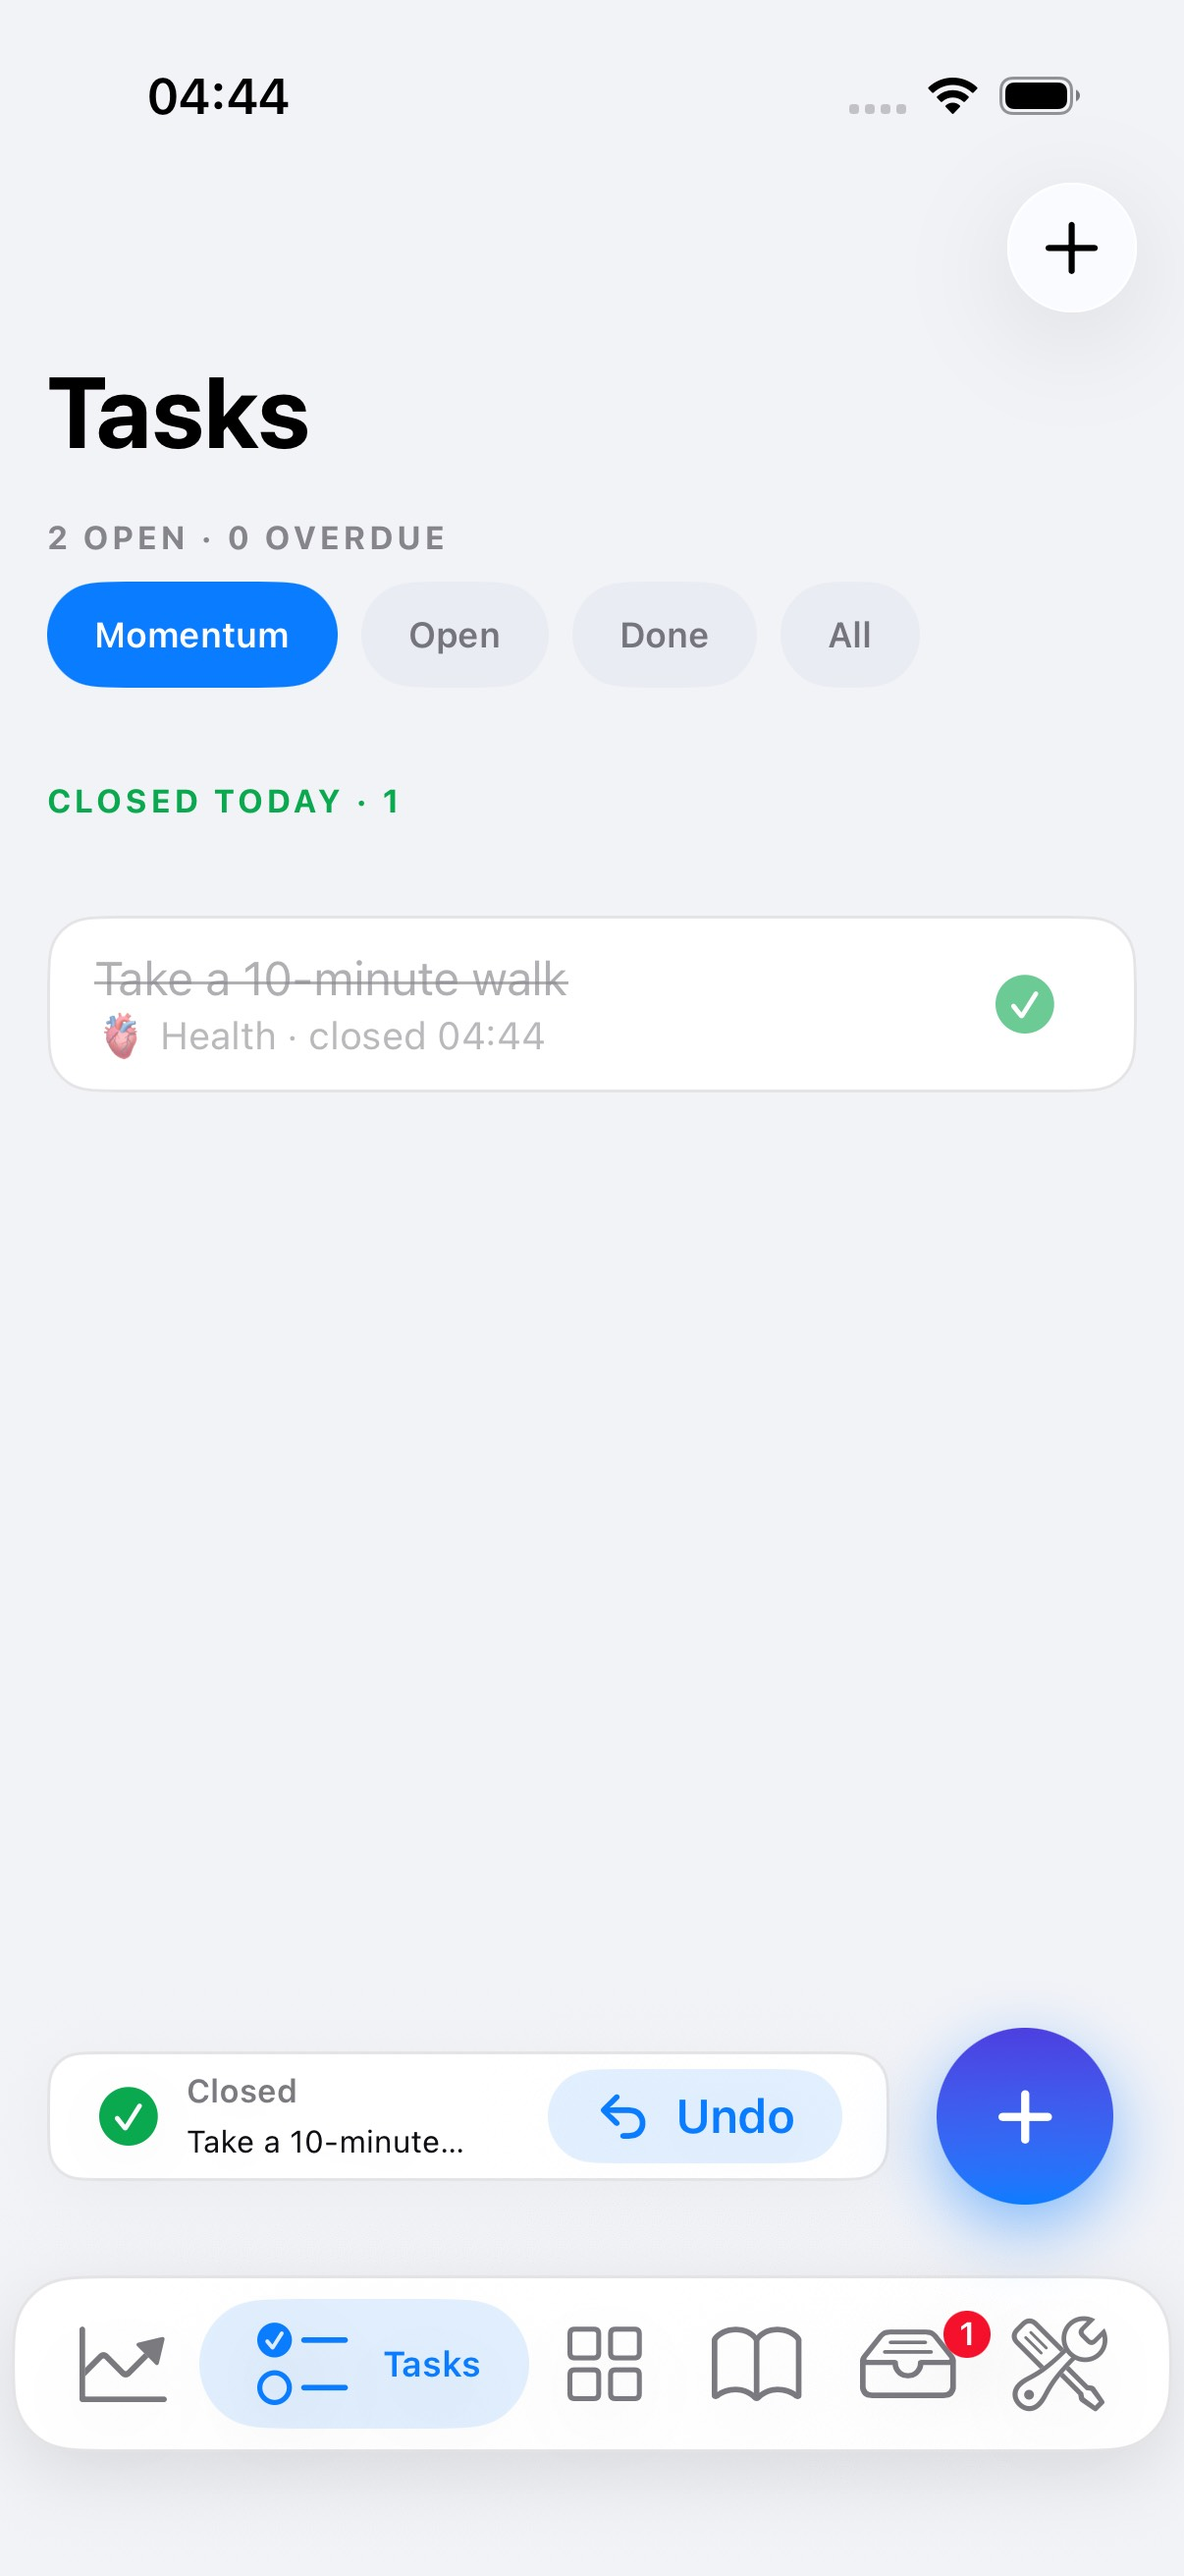
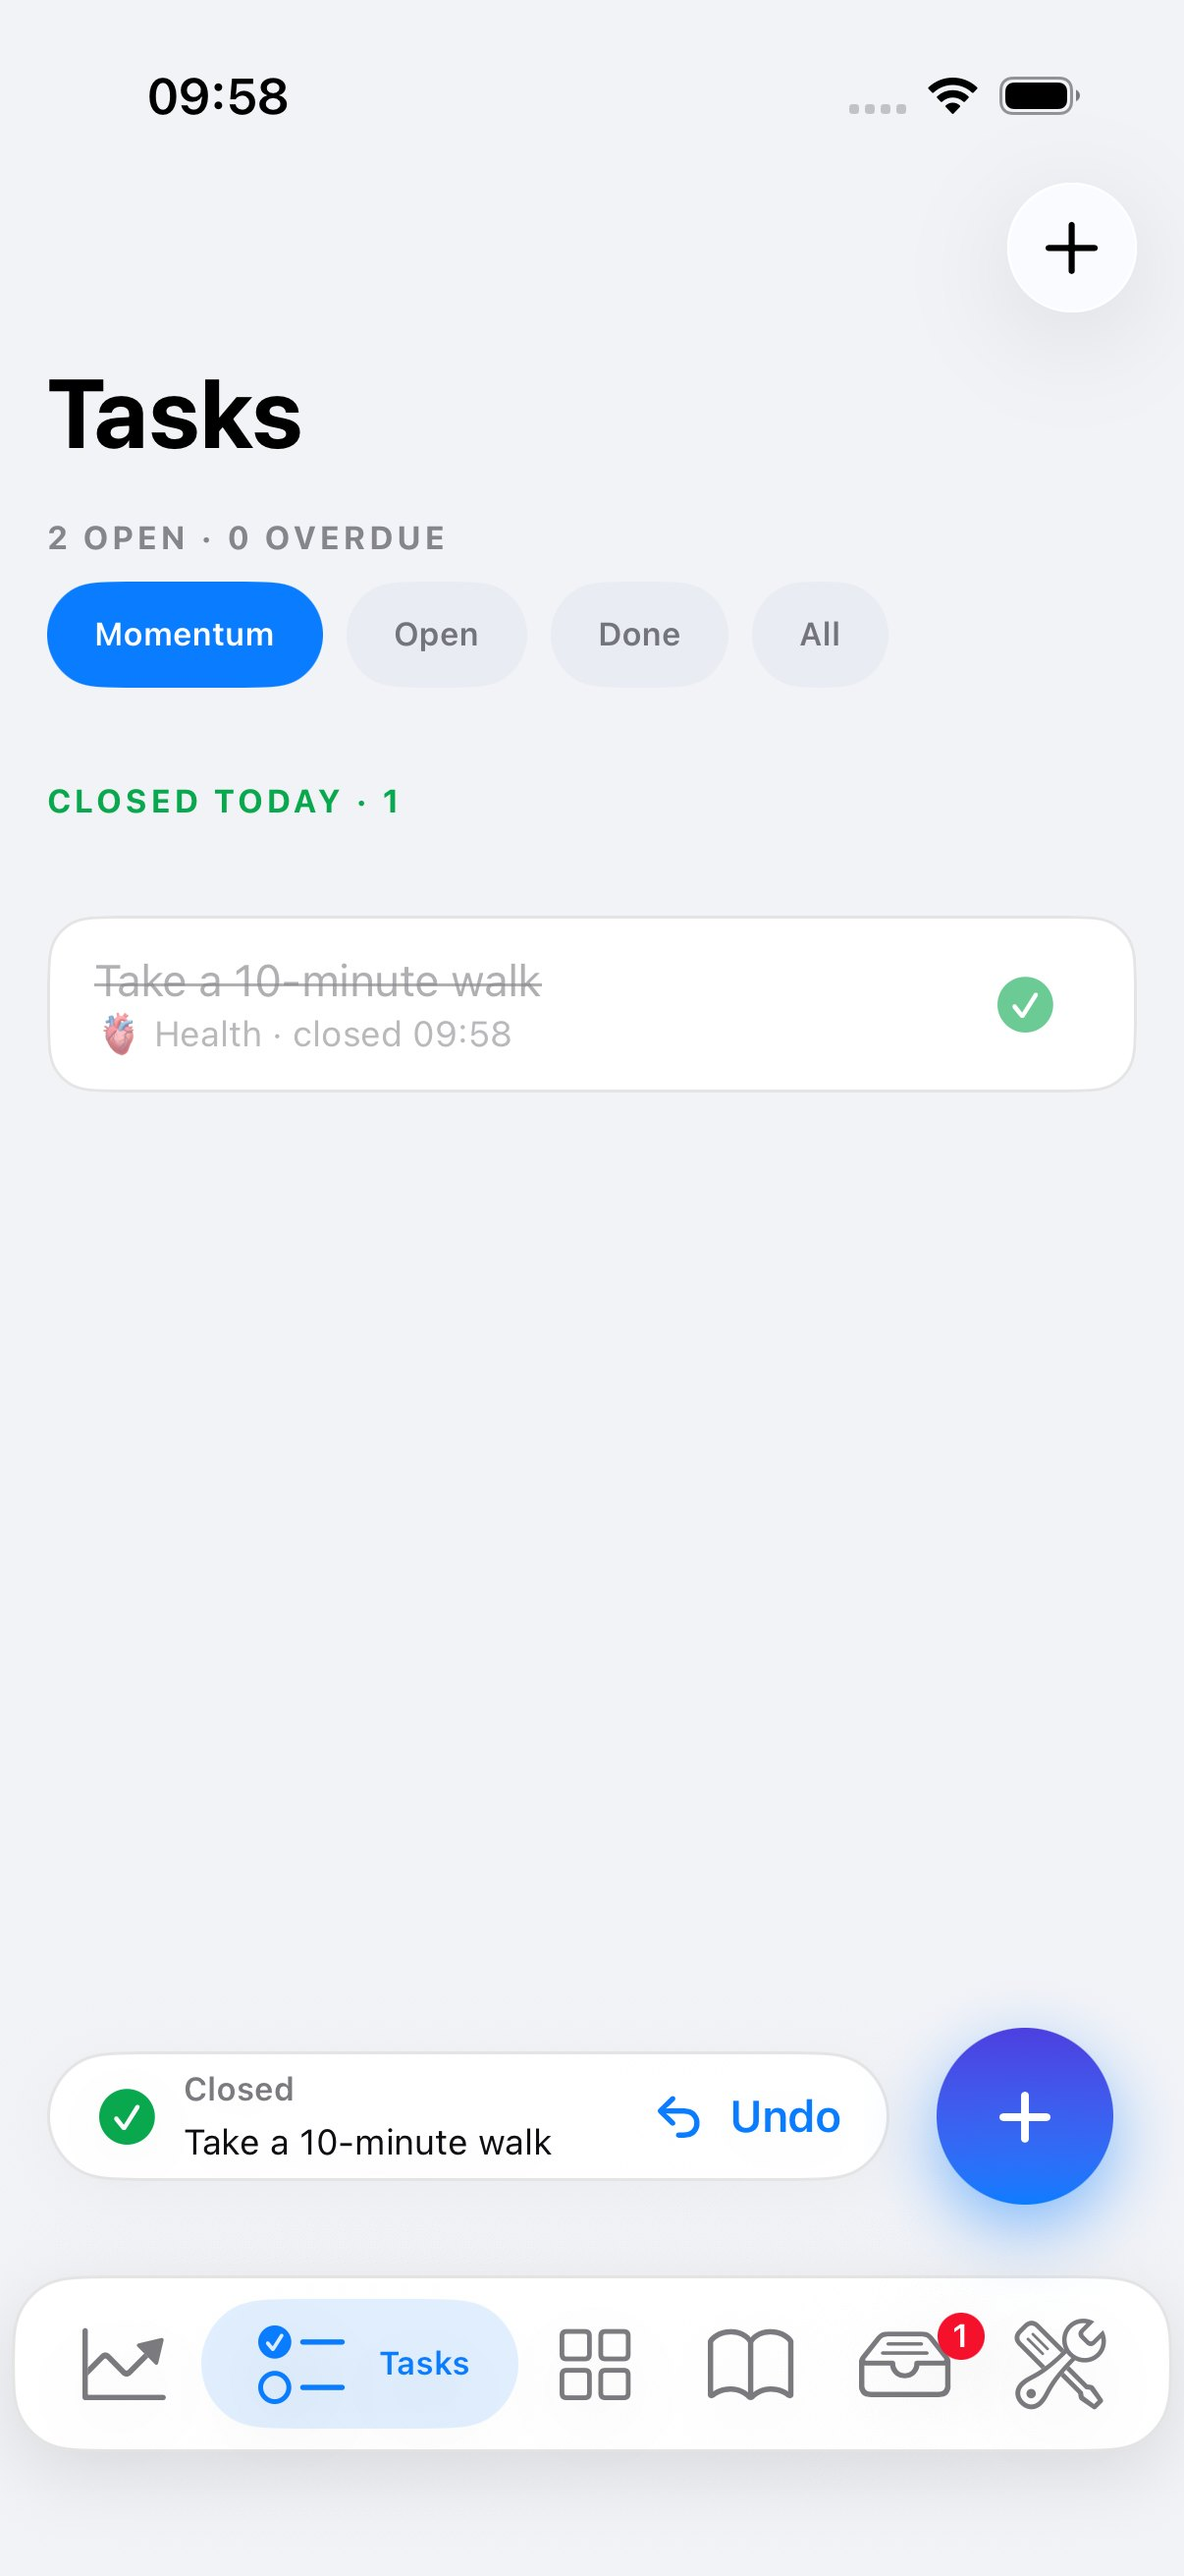
F-C1-UndoCapsule: re-render the evidence at the shipped shape; record the cap
`screenshots/undo-capsule/` re-rendered from the shipped build in light, dark
and Accessibility XL, and the two landscape frames finally re-taken — they had
carried a `-PRE-HEIGHT-ROUND` suffix for two rounds.

`11-ax3-the-decision-capsule-vs-capped-L.jpg` is new: the frame E decided the
radius cap from, both shapes side by side at Accessibility XL with the
measured numbers on each half.

The README's "what driving the real screens caught that the tests could not"
list goes from three items to four, and the new one is the generalisable one:
**when a shape's geometry is DERIVED from its content's size, the accessibility
layout is a different shape — render it before calling a shape round closed.**
6,329 glyph pixels and 2,604 Undo pixels were drawn off the card before the
cap; 0 and 0 after.

Contrast figures updated for the dropped chip: the Undo label sits on
`cardSurface` now, 3.38 → 3.93:1 light and 3.48 → 4.47:1 dark. Still short of
4.5:1, still the held colour arc's — recorded, not fixed.

`TODO-CLAUDE-CODE.md` carries the "Built 2026-09-20, and where it departs from
the spec" note: all four specified changes exactly as written, one departure
and E made it.

Claude-Session: https://claude.ai/code/session_01FW7xV1rwWjatGkoYuSkzgi

diff --git a/screenshots/undo-capsule/README.md b/screenshots/undo-capsule/README.md
@@ -1,32 +1,42 @@
 # `F-C1-UndoCapsule` — the undo capsule, on every surface it appears on
 
-> **Re-rendered 2026-09-20 after E's HEIGHT ROUND.** The first set drew the capsule at **74pt**
-> against a 60pt capture disc. E marked a **45.3pt** band on
-> `02-tasks-capsule-stands-in-for-search-L-EDITED.jpg` — *"the UndoCapsule must be made smaller in
-> height, it looks ugly with the UndoCapsule at the same height as the FAB Icon"* — and, shown four
-> shapes rendered on the real screen (`../undo-capsule-height/`), chose **two lines, a size
-> smaller**: board `54`'s arrangement kept, verb `.footnote` → `.caption2`, subject `.callout` →
-> `.footnote`, subject to ONE line. The card is **44pt** now, which is also §3's touch floor and
-> the search row's own height — it stands in that slot, so matching it is deliberate.
+> **Re-rendered 2026-09-20 (SECOND re-render) after E's SHAPE ROUND — and the render caught a
+> Critical the round itself could not have.** E looked at the 44pt capsule on their own phone and
+> sent the shape back: *"Bringing back a second line is smart. I also recommend that we remove the
+> blue chip background colour behind the "Undo" Button and increase the corner radius of the entire
+> UndoCapsule card."* Eight shapes were then rendered on the real screen
+> (`../undo-capsule-redesign/`) and E chose **fully rounded, no chip, and the Undo control's 16pt
+> padding reclaimed** — then, shown that a second line costs 15pt on every realistic task title,
+> **overturned their own opening words and chose 44pt with ONE wider line.** The reclaimed 32pt is
+> spent widening that line: these frames read *"Take a 10-minute walk"* where the shipped shape
+> truncated.
 >
-> E also chose the Undo control's trade by name: *"Yes — draw 32, tap 44"*. The pill is drawn at
-> 32pt and its hit area is grown back to §3's 44pt with the tab bar's own negative-padding trick
-> (`AppTabBarMetrics.slotHitOverflow`). Round 7's *"48pt for anything that … undoes"* cannot be
-> drawn inside a 44pt band; that number was written for a control that owns its space.
+> **Then the accessibility layout was rendered at the new shape, and nobody had ever done that.**
+> Every frame of the whole redesign round was taken at the DEFAULT text size. A `Capsule` takes its
+> radius from half the card's height — a harmless 22 at 44pt. At Accessibility XL the stacked card
+> is **194.3pt**, so the caps grew to **97.2pt** and the curve ate the corners the content sits in:
+> **6,329 pixels of the completion glyph and 2,604 pixels of the ↶ Undo control were drawn OUTSIDE
+> the card's own fill** — the glyph 59.0pt clear of it, the Undo control 30.3pt. Shown both shapes
+> on the real screen (`11-`), **E chose to cap the radius at `minHeight / 2`.** After the cap those
+> two counts are **0 and 0**.
 >
-> **Every `-L`, `-D` and `-AX3` frame below is the NEW height.** The two landscape frames are
-> suffixed `-PRE-HEIGHT-ROUND` and still show the 74pt capsule: what they prove is the
-> *arrangement* (`RootBottomOverlayLayout` puts the sprint card beside the disc row), which the
-> height does not change, and a shorter capsule only helps it. Re-rendering them is in the next
-> session's opener.
+> **The cap is not a compromise on what E approved.** At 44pt `min(44, 44) / 2` IS 22 — the
+> capsule's own radius — and the two builds' renders of this very screen came back **byte-identical
+> over the capsule band: max channel delta 0, zero differing pixels across 1206×175**. It changes
+75**. It changes the
+> accessibility layout and nothing else.
+>
+> **Every `-L`, `-D` and `-AX3` frame below is the SHIPPED shape**, rendered from `main`'s merge of
+> this round. **The two landscape frames are re-rendered too** and have lost their
+> `-PRE-HEIGHT-ROUND` suffix — they were two rounds stale.
 
 **Environment:** iPhone 17 Pro simulator, iOS 26.5, Firebase **Emulator Suite** (the audit's
-exported state, `scripts/audit/emulator-state`), a throwaway account created by the harness,
-2026-09-20. Portrait frames are `app.screenshot()` attachments from
+exported state, `scripts/audit/emulator-state`, restarted fresh before the baseline), a throwaway
+account created by the harness per run, 2026-09-20. Portrait frames are `app.screenshot()` attachments from
 `ADHD LifeOSUITests/UndoCapsuleRenderUITests`; the landscape one is `xcrun simctl io … screenshot`
 (see `10-` below for why).
 
-**Why this folder exists — what driving the real screens caught that the tests could not.** Three
+**Why this folder exists — what driving the real screens caught that the tests could not.** Four
 things, and none of them is assertable:
 
 1. **The Undo button truncated to "Un…".** In a tight `HStack` SwiftUI compresses whichever child
@@ -39,7 +49,14 @@ things, and none of them is assertable:
 2. **The Journal case, which board `54` never rendered.** E's Step 0 answer 4 said the capsule
    stands in for the PENCIL, full width, and the + disc never moves. `03-` is that, and it is what
    was claimed rather than something close to it.
-3. **Compact-height landscape with a sprint card up, also never rendered.** `10-` is the answer and
+3. **The fully-rounded card breaks the ACCESSIBILITY layout, and only a render at that text size
+   could show it (2026-09-20).** E chose "fully rounded" from eight frames, every one of them at
+   the default text size where the card is 44pt. The stacked accessibility layout is 194.3pt, and a
+   capsule's radius is *derived from its height* — so at that size it is a different shape. 6,329
+   glyph pixels and 2,604 Undo pixels were drawn off the card. **The general rule: when a shape's
+   geometry is derived from its content's size, the accessibility layout is a different shape.
+   Render it before calling a shape round closed.** `11-` is the frame E decided from.
+4. **Compact-height landscape with a sprint card up, also never rendered.** `10-` is the answer and
    it is a good one: the layout puts the sprint card BESIDE the disc row, the capsule takes the
    band left of the +, and all three sit on one line with nothing overlapping and the sprint's ▶
    still reachable.
@@ -50,9 +67,12 @@ never the live project; the simulator was **erased** at close-out, which is also
 signed-in-simulator trap that makes the next unit suite crawl.
 
 **Colours are measured from the colorsets, not from these JPEGs** — see the block report's
-`apple-design` section. Light: subject 19.26:1, verb 4.25:1, Undo label 3.38:1. Dark: 14.97:1,
-5.52:1, 3.48:1. The two below 4.5:1 are the app's existing `LabelSecondary` and the tab bar's own
-selected-pill wash, and belong to the **held colour arc** (round 9: *"Leave it to the colour arc"*).
+`apple-design` section. **Dropping the chip IMPROVED the Undo label**, because it now sits on
+`cardSurface` rather than on a 12%/20% accent wash: **3.38 → 3.93:1** light and **3.48 → 4.47:1**
+dark. Light: subject 19.26:1, verb 4.25:1, Undo label 3.93:1. Dark: 14.97:1, 5.52:1, 4.47:1. The
+remaining shortfalls against 4.5:1 are the app's existing `LabelSecondary` and `AccentColor`, and
+they belong to the **held colour arc** (round 9: *"Leave it to the colour arc"*) — recorded here,
+not fixed.
 
 ## The frames
 
@@ -70,8 +90,9 @@ size or two up in which the capsule never stacked, i.e. it was photographing the
 | `06-inbox-header-arrow-gone-with-the-spent-undo-*` | The other half of the same collision, and the reason E's answer 2 is right: back on the inbox, the header ↶ has gone with the spent undo instead of offering an undo the capsule no longer shows. |
 | `07-today-hero-before-the-close-*` | Today's hero with its "Close it" button, before. |
 | `08-today-capsule-replaces-the-closure-card-*` | The same close, after: the capsule, and **no `ClosureCelebrationCard`** — Home's in-place green card is retired, and the hero recomputes to the next best move rather than being replaced by a celebration. |
+| `11-ax3-the-decision-capsule-vs-capped-L` | **The frame E decided the cap from**, side by side at Accessibility XL with the measured numbers on each half: a true `Capsule` (97.2pt caps, glyph and Undo control drawn off the card) against the radius capped at 44/2 (all content on the card, and pixel-identical to the other at normal text size). |
 | `09-landscape-portrait-reference-L` | The portrait pose with a seeded sprint running, so `10-` has something to be compared against. |
-| `10-landscape-capsule-beside-the-sprint-card-L` | **Board `54` never rendered this either.** Compact height with a card up: `RootBottomOverlayLayout` chooses `.besideTheDisc`, the sprint card takes the column beside the disc row, and the capsule fits in the band with the + — one line, no overlap, the sprint's ▶ still reachable. **Captured with `xcrun simctl io` from outside the test while it held the pose**: `app.screenshot()` lies on a rotated simulator and returns a letterboxed portrait column (`F-LandscapeFix`), which is exactly what the first attempt produced. |
+| `10-landscape-capsule-beside-the-sprint-card-L` | **Board `54` never rendered this either.** Compact height with a card up: `RootBottomOverlayLayout` chooses `.besideTheDisc`, the sprint card takes the column beside the disc row, and the capsule fits in the band with the + — one line, no overlap, the sprint's ▶ still reachable. **Captured with `xcrun simctl io` from outside the test while it held the pose**: `app.screenshot()` lies on a rotated simulator and returns a letterboxed portrait column (`F-LandscapeFix`), which is exactly what the first attempt produced — the harness polls a screenshot every 3s for the whole run and the landscape ones are picked out afterwards, so nothing depends on guessing when the 25s hold starts. |
 
 ## One thing to look at that is not a defect and not settled
 

diff --git a/TODO-CLAUDE-CODE.md b/TODO-CLAUDE-CODE.md
@@ -5527,7 +5527,7 @@ identical 74pt. The fix both times: **one test method per variant** — a method
 swallowed.
 
 
-**E's SHAPE ROUND, 2026-09-20 — the FIRST device look, and it sent the shape back. NOT YET BUILT.**
+**E's SHAPE ROUND, 2026-09-20 — the FIRST device look, and it sent the shape back. BUILT 2026-09-20 — see "Built, and where it departs from the spec" at the end of this section.**
 `main` @ `3f7932c` went onto E's phone (build, install and launch clean in one WIRELESS pass — the
 phone was never disconnected, whatever the opener said). E ran both passes.
 
@@ -5631,7 +5631,56 @@ F-C1's RM-on pass has already PASSED on E's phone. No `firestore.rules` change.
 
 **Still owed when it is built:** re-render `screenshots/undo-capsule/` at the chosen shape (its
 README already carries a re-render note from the height round; this is the second), and the two
-landscape frames still suffixed `-PRE-HEIGHT-ROUND` are now two rounds stale.
+landscape frames still suffixed `-PRE-HEIGHT-ROUND` are now two rounds stale. **Both done — see
+below.**
+
+### Built 2026-09-20, and where it departs from the spec
+
+All four changes landed exactly as specified — `Capsule(style: .continuous)`, no chip,
+`undoHorizontalPadding` DELETED from the constant and from `spacings`, `lineLimit(1)` and
+`minHeight` 44 untouched. **No second line.** Suite **3,137 / 0**, SwiftLint **0 / 843**, build
+green.
+
+**ONE departure, and E made it: the card's radius is CAPPED at `minHeight / 2`.**
+
+The spec said `Capsule(style: .continuous)`, "not a radius number", and that is what was built and
+rendered first. **Then the stacked accessibility layout was rendered at the new shape for the first
+time — and no frame in the whole redesign round had ever been taken above the default text size.**
+A `Capsule` takes its radius from half the card's height. At the default 44pt that is a harmless
+22. At Accessibility XL the stacked card measures **194.3pt**, so the caps grow to **97.2pt** and
+the curve eats the corners the content sits in:
+
+- the completion glyph was drawn **59.0pt** outside the card's own fill;
+- the ↶ Undo control — the one affordance this whole feature exists for — **30.3pt** outside it.
+
+Measured off the render, and the method was validated against a known value first: the middle row
+reads 17.0pt against the 16pt `horizontalPadding` it should be.
+
+E was shown both shapes rendered on the real Tasks screen at Accessibility XL and **chose the cap**.
+**It is not a compromise on what E approved at the shape round**: `min(height, minHeight) / 2` is 22
+at 44pt — the capsule's own radius — and the two builds' renders came back **byte-identical over the
+capsule band (max channel delta 0, zero differing pixels across 1206×175)**. The cap changes the
+accessibility layout and nothing else, and it is a CEILING rather than a fixed corner, so a card
+shorter than the floor is still fully rounded.
+
+`UndoCapsuleCardShape` is a concrete `InsettableShape` (the spec's own warning: `strokeBorder` needs
+one and `AnyShape` is not) that asks `UndoCapsuleMetrics.cardCornerRadius(forHeight:)` rather than
+deciding anything itself.
+
+**The lesson generalises, and it is this block's third instance of the same one:** a combination has
+to be RENDERED, not reasoned about. The height round found it when two of E's picks interacted; the
+shape round found it when the winning variant did not exist at design time; this found it because
+every frame E ever chose from was at one text size. **When a shape's geometry is DERIVED from its
+content's size, the accessibility layout is a different shape — render it before calling the round
+closed.**
+
+**Tests, beyond the four the spec named.** `testTheContentsOwnCornerSitsOnTheCardAtEveryHeightTheLayoutCanTake`
+samples the drawn path at the glyph's own corner across four heights, so E's break is pinned as
+geometry rather than as a radius number; mutated back to a true capsule it fails at 100, 194.3 and
+260pt and PASSES at 44, which is the control. `testTheBorderInsetsItselfInsideTheFillAndTheInsetsAccumulate`
+pins what `strokeBorder` relies on. Both were added because the shape dropped
+`UndoCapsuleMetrics.swift` from 100% to 58.33% — `path(in:)` and `inset(by:)` are pure functions
+SwiftUI alone was calling.
 
 ---
 
